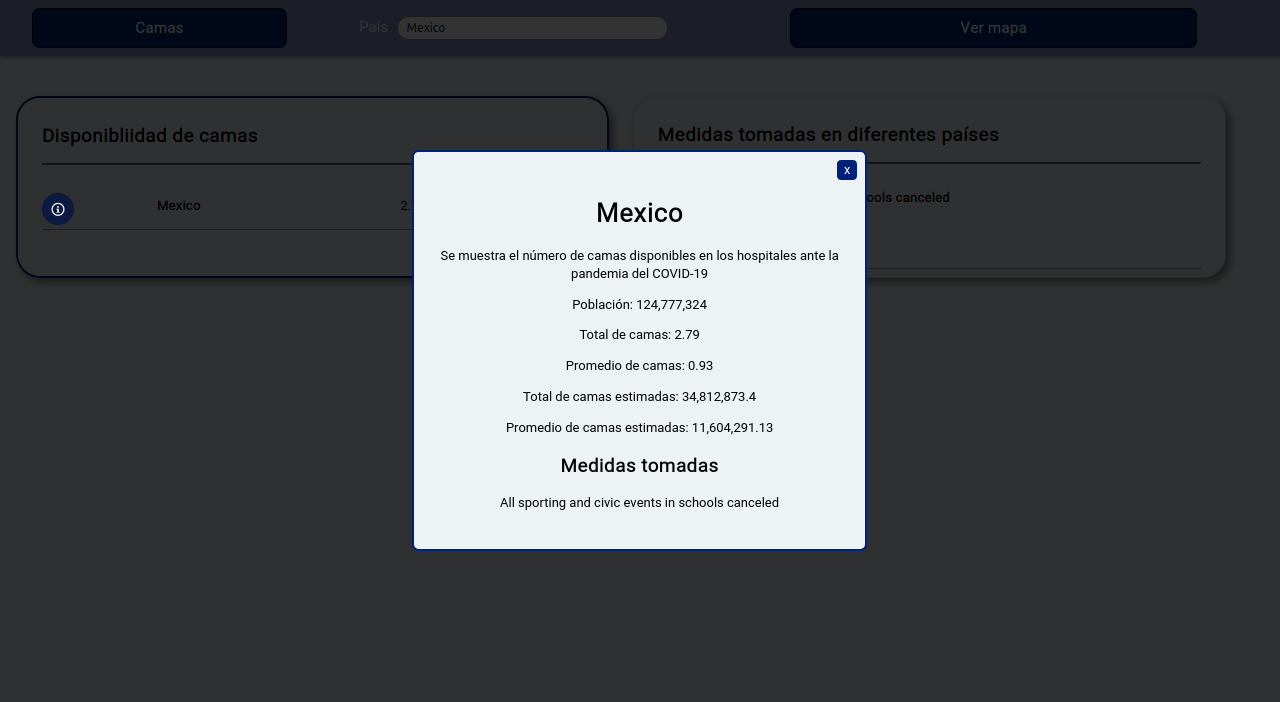
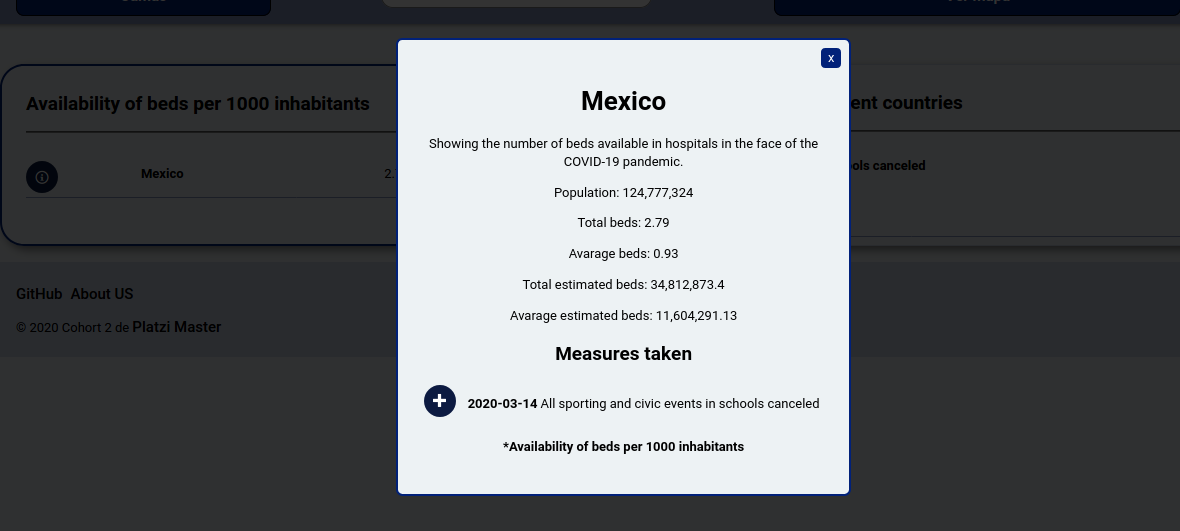
Colocando imágenes, bug del z-index en las cards y omitir los botones plus and minus en caso de que sólo haya una  medida

diff --git a/src/app/about-us/components/about/about.component.html b/src/app/about-us/components/about/about.component.html
@@ -12,7 +12,7 @@
 	<h2>Master Coach</h2>
 	<hr>
 	<div class="bio odder">
-		<img src="/assets/team/coach.jpeg" alt="Master Coach">
+		<img src="https://raw.githubusercontent.com/Armando101/Xilbab-/master/src/assets/team/coach.jpeg" alt="Master Coach">
 		<div class="bio__content">
 			<h3>Joshua P. Cruz</h3>
 			<p>Expepriencia en desarrollo web 🖥, Devops ⚙, chatbots 🤖, SCRUM 📊.Apasionado por la enseñanza y conocer nuevas cosas</p>
@@ -29,13 +29,13 @@
 			<a href="https://twitter.com/jcalvarezj8" target="blank">Twitter</a>
 			<a href="https://github.com/jcalvarezj" target="blank">GitHub</a>
 		</div>
-		<img src="/assets/team/backend.jpeg" alt="Juan C. Alvarez">
+		<img src="https://raw.githubusercontent.com/Armando101/Xilbab-/master/src/assets/team/backend.jpeg" alt="Juan C. Alvarez">
 	</div>
 
 	<h2><a  href="https://www.notion.so/Consultas-por-GraphQL-b5b0be98aeb24a2fb2d5580fe8a4412d" target="blank">Backend</a></h2>
 	<hr>
 	<div class="bio odder">
-		<img src="/assets/team/Jonattan.jpeg" alt="Jonattan Infante">
+		<img src="https://raw.githubusercontent.com/Armando101/Xilbab-/master/src/assets/team/Jonattan.jpeg" alt="Jonattan Infante">
 		<div class="bio__content">
 			<h3>Jonattan Infante</h3>
 			<p>Backend Developer</p>
@@ -52,11 +52,11 @@
 			<a href="https://www.linkedin.com/in/jared-esa%C3%BA-ortega-ram%C3%ADrez-4b6606163/" target="blank">LinkedIn</a>
 			<a href="https://www.instagram.com/iamyoujared/" target="blank">Instagram</a>
 		</div>
-		<img src="/assets/team/jared.jpeg" alt="Jared">
+		<img src="https://raw.githubusercontent.com/Armando101/Xilbab-/master/src/assets/team/jared.jpeg" alt="Jared">
 	</div>
 	
 	<div class="bio odder">
-		<img src="/assets/team/Jair.jpeg" alt="Jair">
+		<img src="https://raw.githubusercontent.com/Armando101/Xilbab-/master/src/assets/team/Jair.jpeg" alt="Jair">
 		<div class="bio__content">
 			<h3>Angel Jair Neri</h3>
 			<p>Dev in progress. Gamer y autodidacta por naturaleza</p>
@@ -74,11 +74,11 @@
 			<a href="https://www.instagram.com/juanjosedev/" target="blank">Instagram</a>
 			<a href="https://twitter.com/juanjosedev" target="blank">Twitter</a>
 		</div>
-		<img src="/assets/team/Juan.jpeg" alt="Juan">
+		<img src="https://raw.githubusercontent.com/Armando101/Xilbab-/master/src/assets/team/Juan.jpeg" alt="Juan">
 	</div>
 	
 	<div class="bio odder">
-		<img src="/assets/team/David.jpeg" alt="David">
+		<img src="https://raw.githubusercontent.com/Armando101/Xilbab-/master/src/assets/team/David.jpeg" alt="David">
 		<div class="bio__content">
 			<h3>David Perez</h3>
 			<p>Estudiante de ingeniería informática 💡 Apasionado por la tecnología 📡 💻 Web Developer </p>
@@ -96,7 +96,7 @@
 			<a href="https://twitter.com/ArmandoRN5" target="blank">Twitter</a>
 			<a href="https://github.com/Armando101" target="blank">GitHub</a>
 		</div>
-		<img src="/assets/team/ArmandoRivera.jpeg" alt="Armando Rivera">
+		<img src="https://raw.githubusercontent.com/Armando101/Xilbab-/master/src/assets/team/ArmandoRivera.jpeg" alt="Armando Rivera">
 	</div>
 
 </div>

diff --git a/src/app/home/components/overlay/overlay.component.html b/src/app/home/components/overlay/overlay.component.html
@@ -23,8 +23,9 @@
         <p *ngIf= "information.restrictions.length==0">No measure registered</p>
         
         <div class="showMeauses" *ngIf= "information.restrictions.length>0">        
-          <i (click)= "more()" *ngIf="!showMore" class="icon-plus burger-button burguer-button--show" id = "burger-menu"></i>
+          <i (click)= "more()" *ngIf="!showMore && information.restrictions.length>1" class="icon-plus burger-button burguer-button--show" id = "burger-menu"></i>
           <i (click)= "more()" *ngIf="showMore" class="icon-minus burger-button burguer-button--show" id = "burger-menu"></i>
+          <i *ngIf="information.restrictions.length==1"></i>
           <p *ngIf="!showMore"> <span class="note">{{information.restrictions[0].dateStart}}</span> {{information.restrictions[0].description}}</p>
           <div class="measure" *ngIf="showMore">
             <div *ngFor="let measure of information.restrictions">

diff --git a/src/app/home/components/cama/cama.component.html b/src/app/home/components/cama/cama.component.html
@@ -1,4 +1,4 @@
-<i (click)= "overlay()" class="icon-info burger-button burguer-button--show" id = "burger-menu"></i>
+<i (click)= "overlay()" class="burger-button icon-info burguer-button--show icon-cama" id = "burger-menu"></i>
 <span class="camas__country" >{{ (information.code | uppercase ) | codeCountry }}</span>
 <span class="camas__amount">{{information.bedsTotal | number:'1.0-2'}}</span>
 <div>

diff --git a/src/estilos/_mapa.scss b/src/estilos/_mapa.scss
@@ -89,12 +89,17 @@ google-map {
   cursor: pointer;
 }
 
+.icon-cama {
+  
+}
+
 .burguer-button--show {
   display: flex;
   position: relative;
   justify-content: center;
   left: 0px;
   top: 5px;
+  z-index: 0;
 }
 
 @media screen and (max-width: 850px) {

diff --git a/src/app/home/components/loading/loading.component.html b/src/app/home/components/loading/loading.component.html
@@ -1,4 +1,4 @@
 <div class="overlay active loading">
-	<img src="../../../../assets/loading.png" alt="loading...">
+	<img src="https://raw.githubusercontent.com/Armando101/Xilbab-/master/src/assets/loading.png" alt="loading...">
 	<h1>Loading... </h1>
 </div>

diff --git a/src/app/home/components/cama/cama.component.ts b/src/app/home/components/cama/cama.component.ts
@@ -1,4 +1,4 @@
-import { Component, OnInit } from '@angular/core';
+import { Component, OnInit, Input } from '@angular/core';
 import { HideOverlayService } from '../../services/overlay.service';
 
 @Component({

diff --git a/src/estilos/_overlay.scss b/src/estilos/_overlay.scss
@@ -25,6 +25,7 @@
   opacity: 0;
   visibility: hidden;
   height: 100%;
+  z-index: 2;
 }
 
 .overlay.active {
